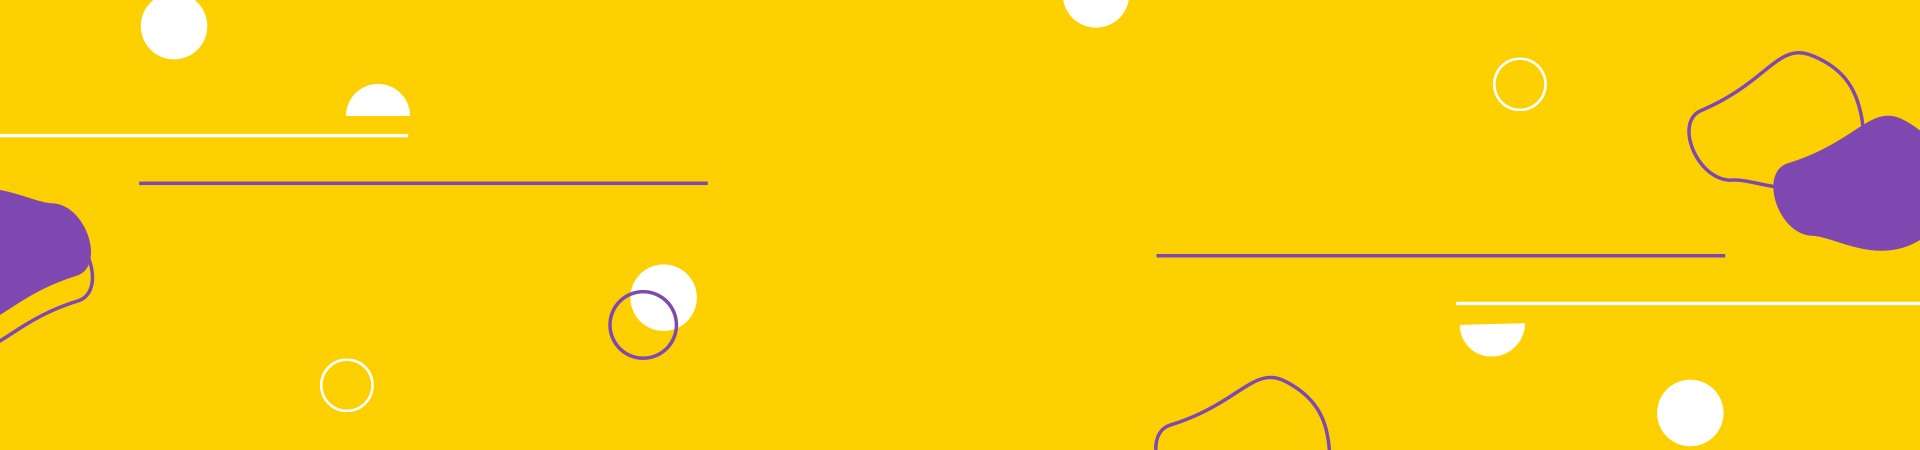
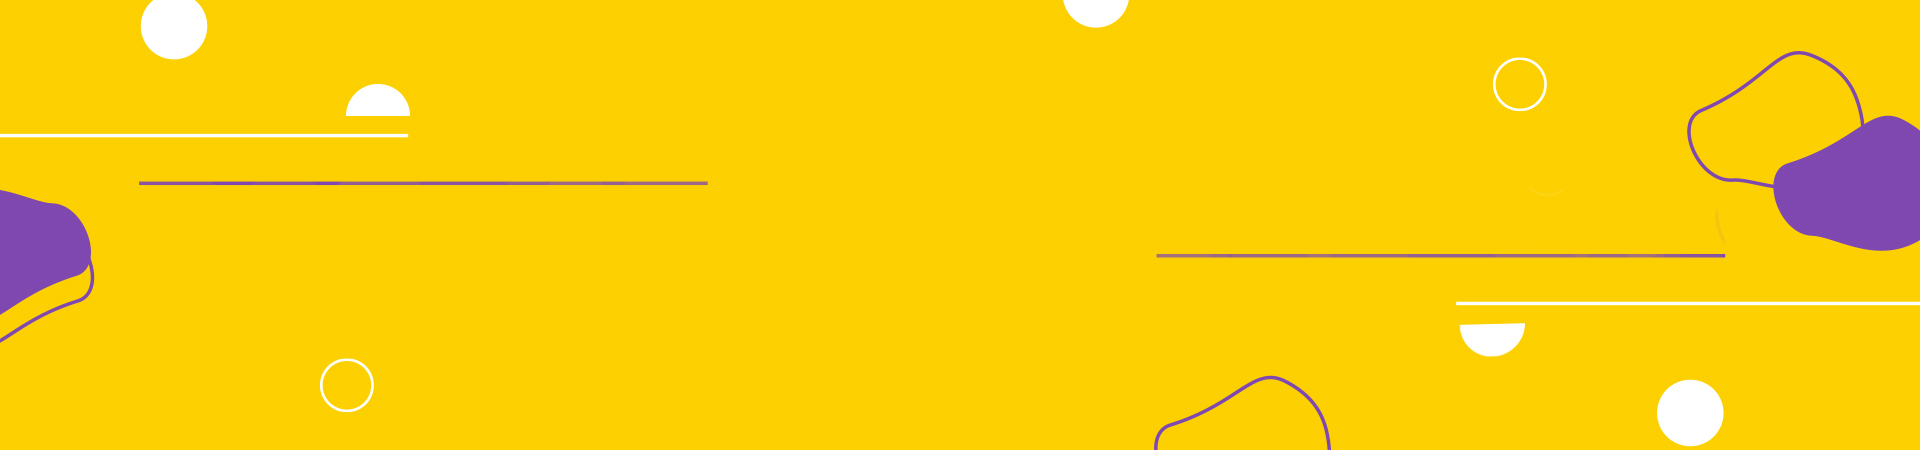
Tamaños titulos, + ilustraciones, media queries

diff --git a/index.html b/index.html
@@ -68,9 +68,8 @@
                                 <!--Hero Content start-->
                                 <div class="hero-content-5 center">
                                     <h3 class="text-black">¿Qué es el dengue y cómo <br>lo prevenimos? </h3>
-                                    <p class="text-black">El Dengue es una enfermedad viral transmitida por un vector, el mosquito Aedes Aegypti. <br> No tiene un tratamiento específico, pero es muy importante no automedicarse e hidratarse <br> constantemente durante el período viral. Se detecta solamente a través de la sangre.</p>
-                                    <!-- <a class="brook-btn bk-btn-white btn-sd-size btn-rounded corona-btn space-between" href="#">How to Protect</a>
-                                    <a class="brook-btn bk-btn-theme btn-sd-size btn-rounded corona-btn space-between" href="#">Find a Doctor</a> -->
+                                    <p class="text-black" style="font-size: 16px;">El Dengue es una enfermedad viral transmitida por un vector, el mosquito Aedes Aegypti. <br> No tiene un tratamiento específico, pero es muy importante no automedicarse e hidratarse <br> constantemente durante el período viral. Se detecta solamente a través de la sangre.</p>
+                                   
                                 </div>
                                 <!--Hero Content end-->
 
@@ -93,8 +92,8 @@
                             <div class="row align-items-center">
                                 <div class="col-lg-12 wow move-up animate">
                                     <div class="brook-section-title-corona wow move-up animate" style="text-align: center;">
-                                        <h3 style="font-size: 50px; color: #ffdb36;">Síntomas</h3>
-                                        <p class="sub-title">De presentar fiebre alta, y alguno de estos síntomas, es muy importante no automedicarse, <br> ya que puede desencadenar complicaciones en el cuadro viral,<br>y concurrir al centro de salud más cercano.</p>
+                                        <h3 style="color: #ffdb36;" id="h3Sintomas">Síntomas</h3>
+                                        <p class="sub-title" style="font-size: 16px;">De presentar fiebre alta, y alguno de estos síntomas, es muy importante no automedicarse, <br> ya que puede desencadenar complicaciones en el cuadro viral,<br>y concurrir al centro de salud más cercano.</p>
                                     </div>
                                 </div>
                             </div>
@@ -197,7 +196,7 @@
                     <div class="row align-items-center">
                         <div class="col-lg-12 col-12">
                             <div class="call-content vertical-call-toaction text-center">
-                                <h3 class="heading heading-h3 text-black wow move-up" style="font-size: 50px;">¿Cómo prevenir el dengue?</h3>
+                                <h3 class="heading heading-h3 text-black wow move-up" id="h3PrevenirDos">¿Cómo prevenir el dengue?</h3>
                                 
                             </div>
                         </div>
@@ -230,7 +229,7 @@
                                     </div>
                                     <div class="contagion-content">
                                         <!-- <h3 class="title">Human Contact</h3> -->
-                                        <p>Los mosquitos vuelven a aparecer en los primeros días de calor, ya que los huevos pueden sobrevivir hasta un año pegados en las paredes de los recipientes secos. Los mosquitos Aedes Aegipty se crían en entornos domiciliarios. </p>
+                                        <p style="font-size: 16px;">Los mosquitos vuelven a aparecer en los primeros días de calor, ya que los huevos pueden sobrevivir hasta un año pegados en las paredes de los recipientes secos. Los mosquitos Aedes Aegipty se crían en entornos domiciliarios. </p>
                                     </div>
                                 </div>
                                 <!-- Single Contagion End -->
@@ -241,7 +240,7 @@
                                     </div>
                                     <div class="contagion-content">
                                         <!-- <h3 class="title">Prvencion</h3> -->
-                                        <p>Por eso la mejor forma de empezar a prevenir las ETMAa es eliminar los recipientes que hayan acumulado agua durante el período de calor o bien cepillar las paredes de los recipientes para remover los huevos. </p>
+                                        <p style="font-size: 16px;">Por eso la mejor forma de empezar a prevenir las ETMAa es eliminar los recipientes que hayan acumulado agua durante el período de calor o bien cepillar las paredes de los recipientes para remover los huevos. </p>
                                     </div>
                                 </div>
                                 <!-- Single Contagion End -->
@@ -252,7 +251,7 @@
                                     </div>
                                     <div class="contagion-content">
                                         <!-- <h3 class="title">Contaminated Objects</h3> -->
-                                        <p>Tenemos que prestarle especial atención a objetos como: floreros y plantas en agua, rejillas, gomas de auto, botellas, tachos a la intemperie, o hasta en una tapita de una botella. Los más comunes se encuentran en nuestras casas, ya que la mosquita deposita sus huevos en recipientes artificiales con agua estancada y limpia.</p>
+                                        <p style="font-size: 16px;">Tenemos que prestarle especial atención a objetos como: floreros y plantas en agua, rejillas, gomas de auto, botellas, tachos a la intemperie, o hasta en una tapita de una botella. Los más comunes se encuentran en nuestras casas, ya que la mosquita deposita sus huevos en recipientes artificiales con agua estancada y limpia.</p>
                                     </div>
                                 </div>
                                 <!-- Single Contagion End -->
@@ -269,12 +268,28 @@
                     <div class="row align-items-center">
                         <div class="col-lg-12 wow move-up animate">
                             <div class="brook-section-title-corona wow move-up animate" style="text-align: center;">
-                                <h3 class="text-black" style="font-size: 50px;">Formas comunes de prevenirlo:</h3>
-                                <p class="sub-title" style="font-weight: bold;">Eliminando recipientes en desuso, actuar sobre posibles criaderos en el hogar y resolviendo <br>criaderos de gran volumen con ayuda de vecinos o el Estado.</p>
+                                <h3 class="text-black" id="h3Prevenir">Formas comunes de prevenirlo:</h3>
+                                <p class="sub-title" style="font-weight: bold; font-size: 16px;">Eliminando recipientes en desuso, actuar sobre posibles criaderos en el hogar y resolviendo <br>criaderos de gran volumen con ayuda de vecinos o el Estado.</p>
                                 <br>
                                 <p class="sub-title" style="font-weight: bold; font-size: 22px;">¿Cómo?</p>
                                 <br>
-                                <p class="sub-title" style="font-weight: bold;">Es una solución impedir que el mosquito entre a poner sus huevos al recipiente o salga <br> del agua al convertirse en adulto, para eso podemos tapar el acceso al agua. </p>
+                                <p class="sub-title" style="font-weight: bold; -ms-flow-into: 16px;">Es una solución impedir que el mosquito entre a poner sus huevos al recipiente o salga <br> del agua al convertirse en adulto, para eso podemos tapar el acceso al agua. </p>
+                            </div>
+                        </div>
+                    </div>
+                </div>
+            </div>
+
+            <div class="brook-call-to-action pt--80 pb--30" style="width: 100%;">
+                <div class="container">
+                    <div class="row align-items-center">
+                        <div class="col-lg-12 col-sm-12 col-12">
+                            <div class="call-content text-center text-sm-center">
+                                <div class="center"> 
+                                    <h3 id="h3Recomendacion" class="" style="color: #ffdb36;">
+                                        Recomendaciones y cuidados practicos
+                                    </h3>
+                                </div>
                             </div>
                         </div>
                     </div>
@@ -283,20 +298,11 @@
             
 
             <!-- Prevenetion of Area Start -->
-            <div class="prevenation-area bg_color--1 pt--110 pt_md--70 pt_sm--50 pb--40 pb_md--70 pb_sm--60">
+            <div class="prevenation-area bg_color--1 pt--80 pt_md--70 pt_sm--50 pb--40 pb_md--70 pb_sm--60">
                 <div class="container-fluid plr--220 plr_lp--15 plr_lg--15 plr_md--15 plr_sm--15">
                     <div class="row align-items-center">
                         <div class="col-lg-12 col-md-12">
-                            <div class="row mb--50 mb_sm--30">
-                                <div class="col-12">
-                                    <!-- Section Title Start -->
-                                    <div class="brook-section-title-corona wow move-up animate" style="text-align: center;" >
-                                        <h3 style="font-size: 50px; color: #ffdb36;">Recomendaciones y<br>cuidados prácticos </h3>
-                                        <!-- <p>Eliminando recipientes en desuso, actuar sobre posibles criaderos en el hogar y resolviendo <br> criaderos de gran volumen con ayuda de vecinos o el Estado. </p> -->
-                                    </div>
-                                    <!-- Section Title End -->
-                                </div>
-                            </div>
+                            
                             <div class="row">
                                 <div class="col-lg-4 col-md-4 col-6 wow move-up animate">
                                     <!-- Single Prevenation Start -->
@@ -305,7 +311,7 @@
                                             <img src="imagenes/280x280/280x280-frasco.png" alt="">
                                         </div>
                                         <div class="prevination-content">
-                                            <h5>Evitá mantener y guardar recipientes que acumulen agua en los espacios al aire libre, como patios, terrazas y balcones.</h5>
+                                            <h5 style="font-size: 16px;">Evitá mantener y guardar recipientes que acumulen agua en los espacios al aire libre, como patios, terrazas y balcones.</h5>
                                         </div>
                                     </div>
                                     <!-- Single Prevenation End -->
@@ -317,7 +323,7 @@
                                             <img src="imagenes/280x280/280x280-maceta.png" alt="">
                                         </div>
                                         <div class="prevination-content">
-                                            <h5>Las plantas enraizadas en agua son un lugar excelente para que se críen mosquitos. Las podés trasplantar a una maceta con tierra, o ponerle arena húmeda, que también la mantiene viva.</h5>
+                                            <h5 style="font-size: 16px;">Las plantas enraizadas en agua son un lugar excelente para que se críen mosquitos. Las podés trasplantar a una maceta con tierra, o ponerle arena húmeda, que también la mantiene viva.</h5>
                                         </div>
                                     </div>
                                     <!-- Single Prevenation End -->
@@ -329,7 +335,7 @@
                                             <img src="imagenes/280x280/280x280-balde.png" alt="">
                                         </div>
                                         <div class="prevination-content">
-                                            <h5>Si tenés baldes, tachos u otros elementos que acumulen agua, podés darlos vuelta o cubrirlos con malla mosquitera.</h5>
+                                            <h5 style="font-size: 16px;">Si tenés baldes, tachos u otros elementos que acumulen agua, podés darlos vuelta o cubrirlos con malla mosquitera.</h5>
                                         </div>
                                     </div>
                                     <!-- Single Prevenation End -->
@@ -341,7 +347,7 @@
                                             <img src="imagenes/280x280/280x280-pile.png" alt="">
                                         </div>
                                         <div class="prevination-content">
-                                            <h5>Si tenés pileta y no está en constante uso <br> podés taparla con una lona <br> (que no acumule agua en los pliegues).</h5>
+                                            <h5 style="font-size: 16px;">Si tenés pileta y no está en constante uso <br> podés taparla con una lona <br> (que no acumule agua en los pliegues).</h5>
                                         </div>
                                     </div>
                                     <!-- Single Prevenation End -->
@@ -353,7 +359,7 @@
                                             <img src="imagenes/280x280/280x280-mascotas.png" alt="">
                                         </div>
                                         <div class="prevination-content">
-                                            <h5>Cambiar el agua y <br> limpiar el bebedero de las mascotas <br> todos los días.</h5>
+                                            <h5 style="font-size: 16px;">Cambiar el agua y <br> limpiar el bebedero de las mascotas <br> todos los días.</h5>
                                         </div>
                                     </div>
                                     <!-- Single Prevenation End -->

diff --git a/css/custom.css b/css/custom.css
@@ -9,7 +9,7 @@
 **********************************************************************************/
 
 #banner{
-	background-image: url(/imagenes/Banner-dengue.jpg);
+	background-image: url(/imagenes/fondohero-1920x950-opc2.jpg);
 }
 @media only screen and (max-width: 400px){
 
@@ -30,6 +30,70 @@
 
 	#imgFooter{
 		width: 65%;
+	}
+
+}
+
+@media only screen and (max-width: 400px){
+
+	#h3Recomendacion{
+		font-size: 30px;
+	}
+
+}
+
+@media only screen and (min-width: 400px){
+
+	#h3Recomendacion{
+		font-size: 50px;
+	}
+
+}
+
+@media only screen and (max-width: 400px){
+
+	#h3Prevenir{
+		font-size: 30px;
+	}
+
+}
+
+@media only screen and (min-width: 400px){
+
+	#h3Prevenir{
+		font-size: 50px;
+	}
+
+}
+
+@media only screen and (max-width: 400px){
+
+	#h3PrevenirDos {
+		font-size: 30px;
+	}
+
+}
+
+@media only screen and (min-width: 400px){
+
+	#h3PrevenirDos {
+		font-size: 50px;
+	}
+
+}
+
+@media only screen and (max-width: 400px){
+
+	#h3Sintomas {
+		font-size: 30px;
+	}
+
+}
+
+@media only screen and (min-width: 400px){
+
+	#h3Sintomas {
+		font-size: 50px;
 	}
 
 }
